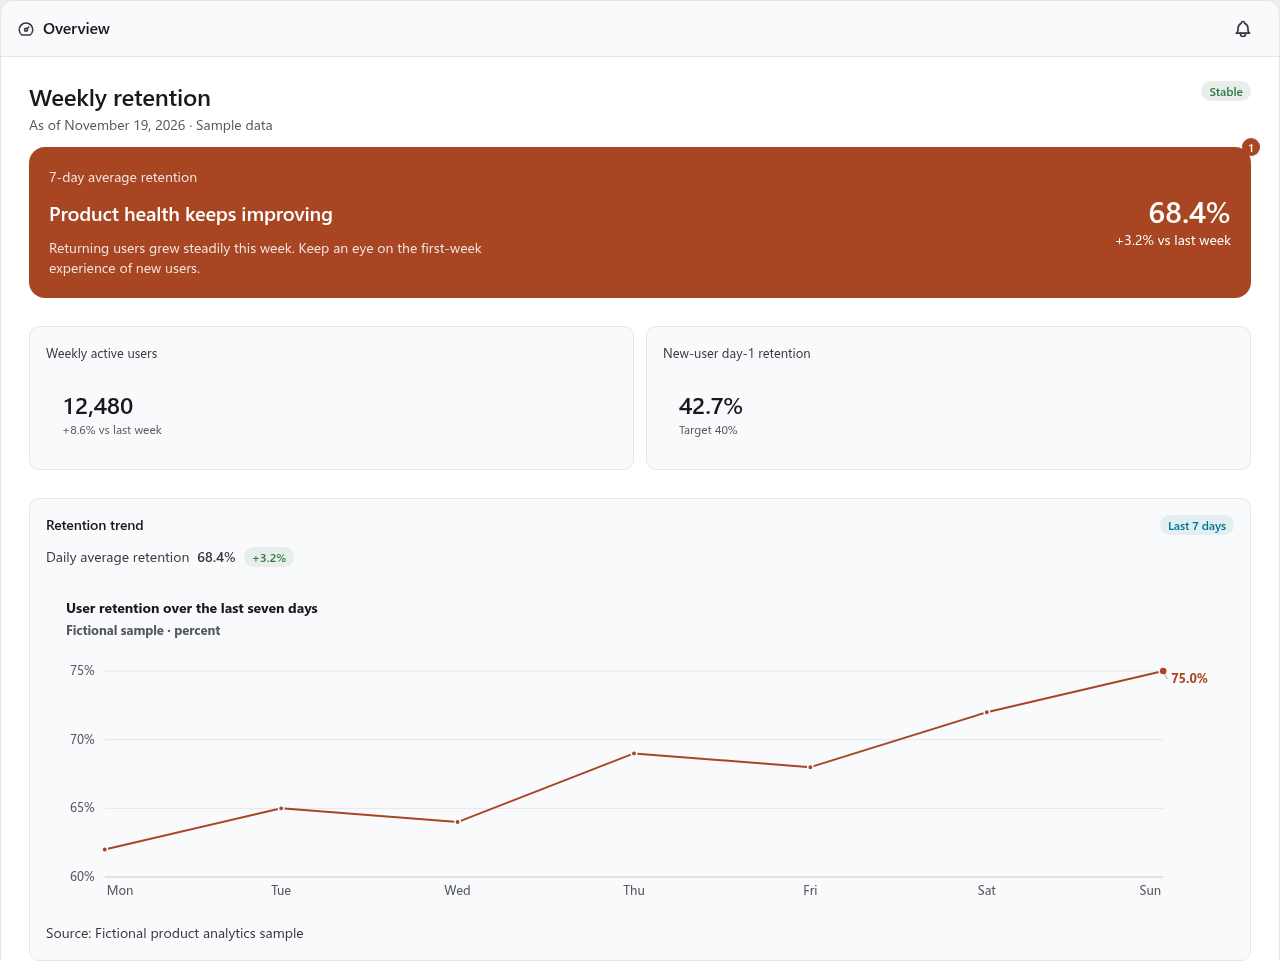
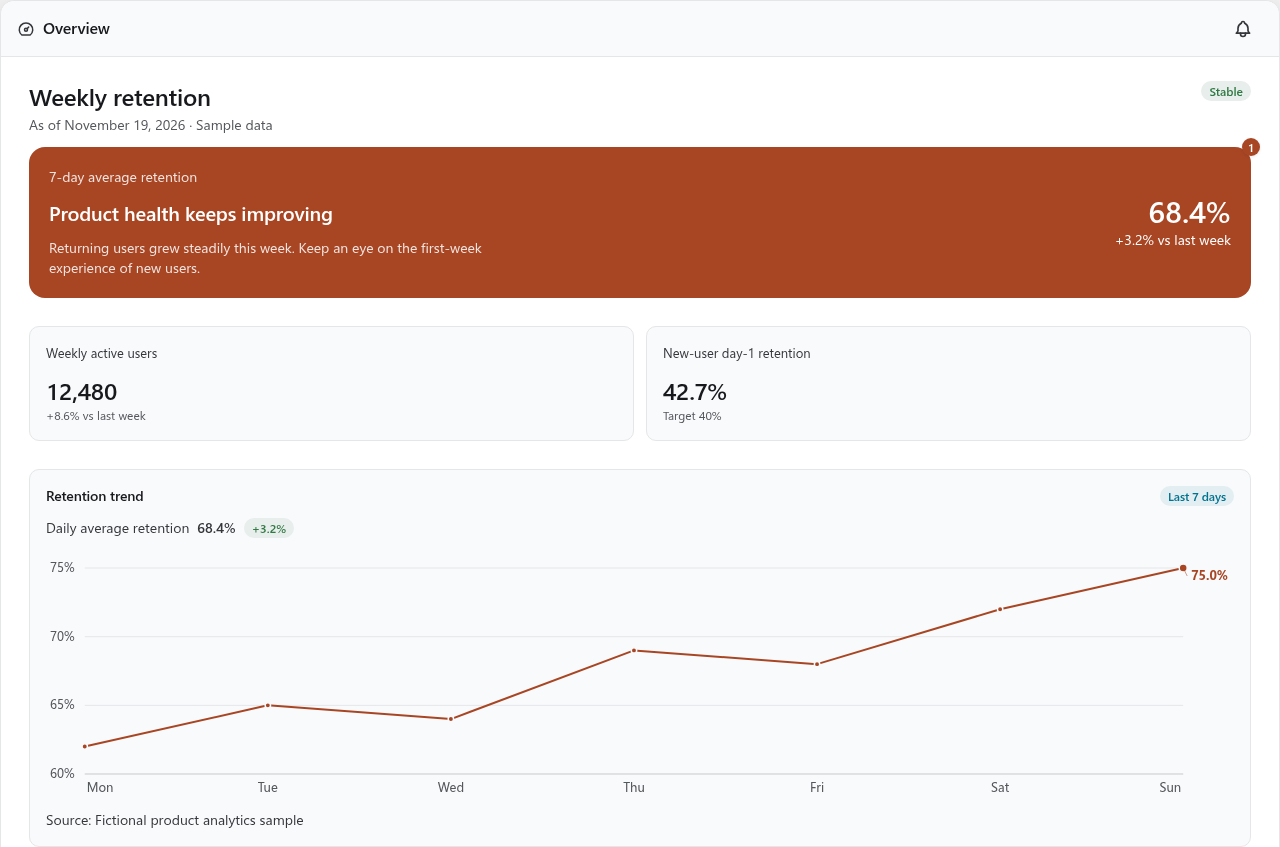
Seat charts and stats flush with their UI card and show one title per chart card

diff --git a/skills/html-view/assets/page/ui.css b/skills/html-view/assets/page/ui.css
@@ -1207,7 +1207,8 @@ code {
   font-weight: 600;
   line-height: 1;
 }
-.stat { display: flex; flex-direction: column; gap: 2px; min-width: 0; }
+/* 阅读页的 .stat 是带底色的指标块；界面稿里指标写在卡片内，不再嵌一层内边距和底色。 */
+.stat { display: flex; flex-direction: column; gap: 2px; min-width: 0; padding: 0; border-radius: 0; background: none; }
 .stat-v { color: var(--fg-1); font-size: var(--ui-fs-24); font-weight: 600; line-height: 1.2; }
 .stat-l { color: var(--fg-3); font-size: var(--ui-fs-12); line-height: 1.4; }
 
@@ -1773,8 +1774,14 @@ a.chip { cursor: pointer; }
 [data-mode="export"] .top-bar,
 [data-mode="export"] .tab-bar { position: static; }
 
-/* 图卡嵌入已有卡片时使用父卡片间距，不能再叠一层外边距。 */
-.card > .viz.viz-figure { margin: 0; }
+/* 图卡嵌入已有卡片时沿用父卡片的间距和底色：图题、图身与卡片文字左对齐，不再叠一层内衬。
+   卡片已有 section-title 时由它做标题，图题不再显示；SVG 自带的 title 仍供读屏使用。 */
+.card > .viz.viz-figure { margin: 0; border-radius: 0; background: none; }
+.card > .viz-figure > figcaption { padding: 0; }
+.card > .viz-figure > .viz-body.fig-body { padding: 12px 0 0; }
+.card > .viz-figure > .fig-meta { margin-top: 8px; }
+.card:has(> .section-title) > .viz-figure > figcaption { display: none; }
+.card:has(> .section-title) > .viz-figure > .viz-body.fig-body { padding-top: 0; }
 
 .ui-shot { display: flex; flex-direction: column; width: 390px; margin: 0 auto; container-type: inline-size; }
 .ui-shot[data-w="desktop"] { width: 1280px; }

diff --git a/docs/showcase/examples/en/retention-dashboard.html b/docs/showcase/examples/en/retention-dashboard.html
@@ -78,7 +78,7 @@
         <p class="alert" data-k="ok" role="status" data-when="Filtered">Filters applied. The chart still shows the same fictional retention data.</p>
       </form>
       <section class="card stack" data-note="Chart values are synthetic samples, not real business data.">
-        <h3 class="section-title">Retention by channel</h3>
+        <h3 class="section-title">Day-1 retention by channel</h3>
         <pre data-viz="kchart" id="channel-retention">{"chart":"bar","title":"Day-1 retention by channel","data":[{"channel":"Organic","rate":0.43},{"channel":"Content campaign","rate":0.39},{"channel":"Referral","rate":0.51}],"encode":{"category":"channel","value":"rate"},"fields":{"rate":{"format":"percent"}},"source":"Fictional product analytics sample"}</pre>
       </section>
       <a class="btn" href="#scr-overview" data-go="scr-overview">Back to overview</a>

diff --git a/skills/html-view/scripts/tests/fixtures/ui/retention-dashboard.html b/skills/html-view/scripts/tests/fixtures/ui/retention-dashboard.html
@@ -79,7 +79,7 @@
         <p class="alert" data-k="ok" role="status" data-when="已筛选">筛选已应用；图表仍展示一组虚构留存数据。</p>
       </form>
       <section class="card stack" data-note="图表数值为虚构合成样例，不代表真实业务数据。">
-        <h3 class="section-title">渠道留存率</h3>
+        <h3 class="section-title">各渠道次日留存率</h3>
         <pre data-viz="kchart" id="channel-retention">{"chart":"bar","title":"各渠道次日留存率","data":[{"channel":"自然流量","rate":0.43},{"channel":"内容活动","rate":0.39},{"channel":"用户推荐","rate":0.51}],"encode":{"category":"channel","value":"rate"},"fields":{"rate":{"format":"percent"}},"source":"虚构产品分析样例"}</pre>
       </section>
       <a class="btn" href="#scr-overview" data-go="scr-overview">返回经营概览</a>

diff --git a/skills/html-view/references/artifacts/ui-components.md b/skills/html-view/references/artifacts/ui-components.md
@@ -60,6 +60,8 @@
 
 普通 HTML 表格只用于用户确实需要的表格数据；图表必须用 KChart 声明 `<pre data-viz="kchart">…</pre>`，界面稿外壳默认不渲染可读数据表。
 
+图表放在 `card` 里时沿用卡片的内边距，与卡片文字左对齐。卡片已有 `section-title` 时，它就是这张图的可见标题，图表自己的 `title`、`subtitle` 不再显示，`title` 只作读屏名称。因此 `section-title` 要写出图的完整口径，如“各渠道次日留存率”；副标题里必须让读者看到的说明改写进卡片正文。
+
 ## 内容属性
 
 | 属性 | 用法 |
